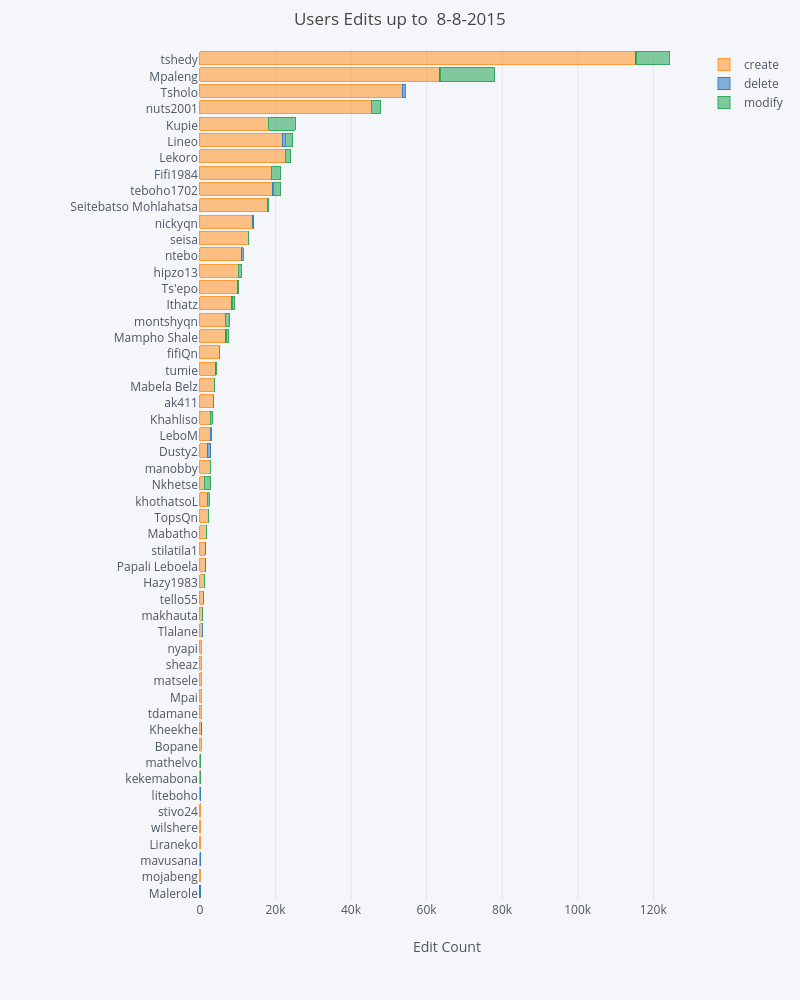
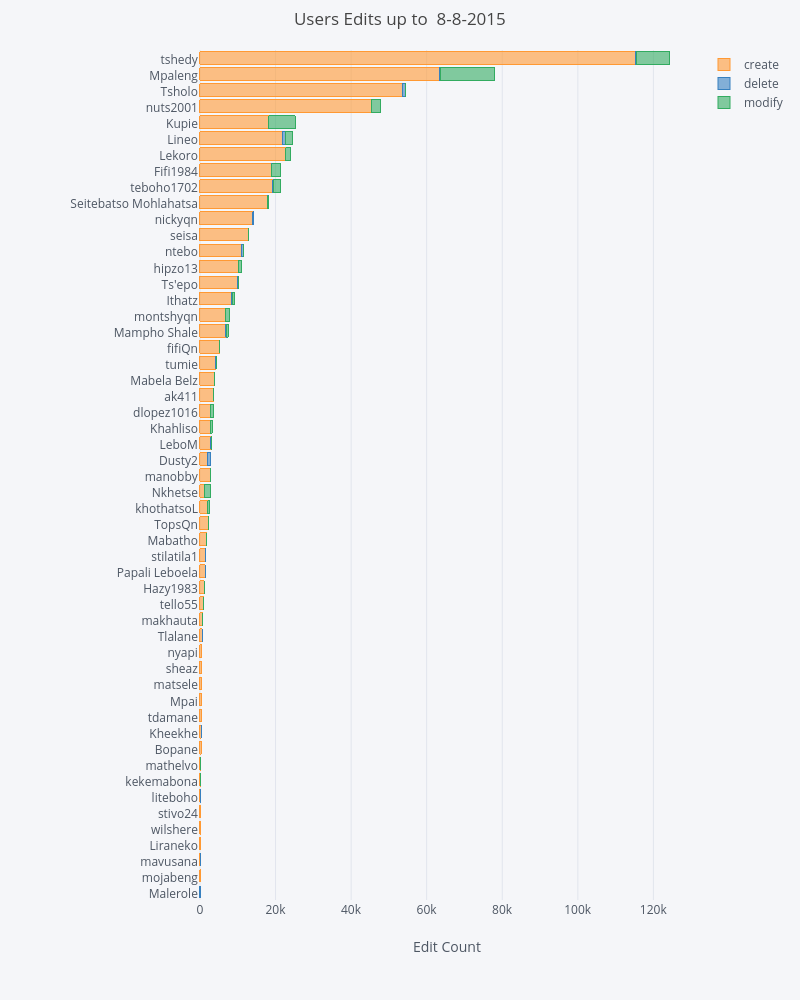
stats updated 08-08-2015

Changed region(s): [[0.0938, 0.062, 0.5, 0.899]]

diff --git a/index.html b/index.html
@@ -226,6 +226,13 @@
       <td>3649</td>
     </tr>
     <tr>
+      <td>dlopez1016</td>
+      <td>2804</td>
+      <td>24</td>
+      <td>759</td>
+      <td>3587</td>
+    </tr>
+    <tr>
       <td>Khahliso</td>
       <td>2776</td>
       <td>62</td>
